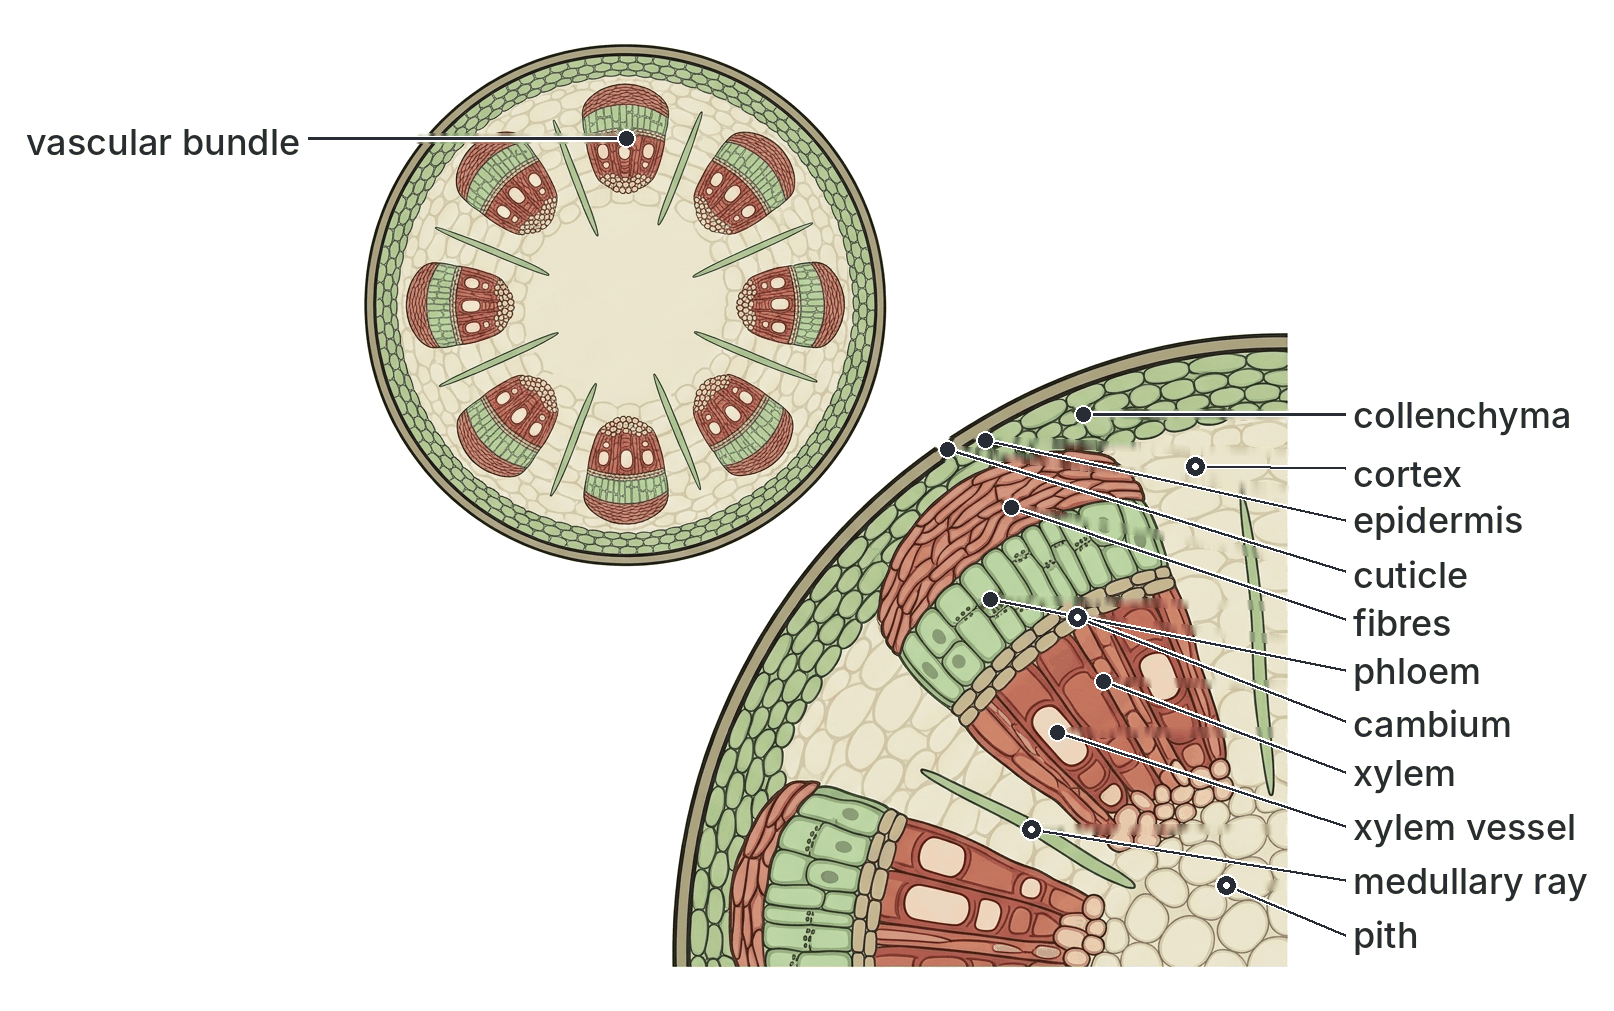
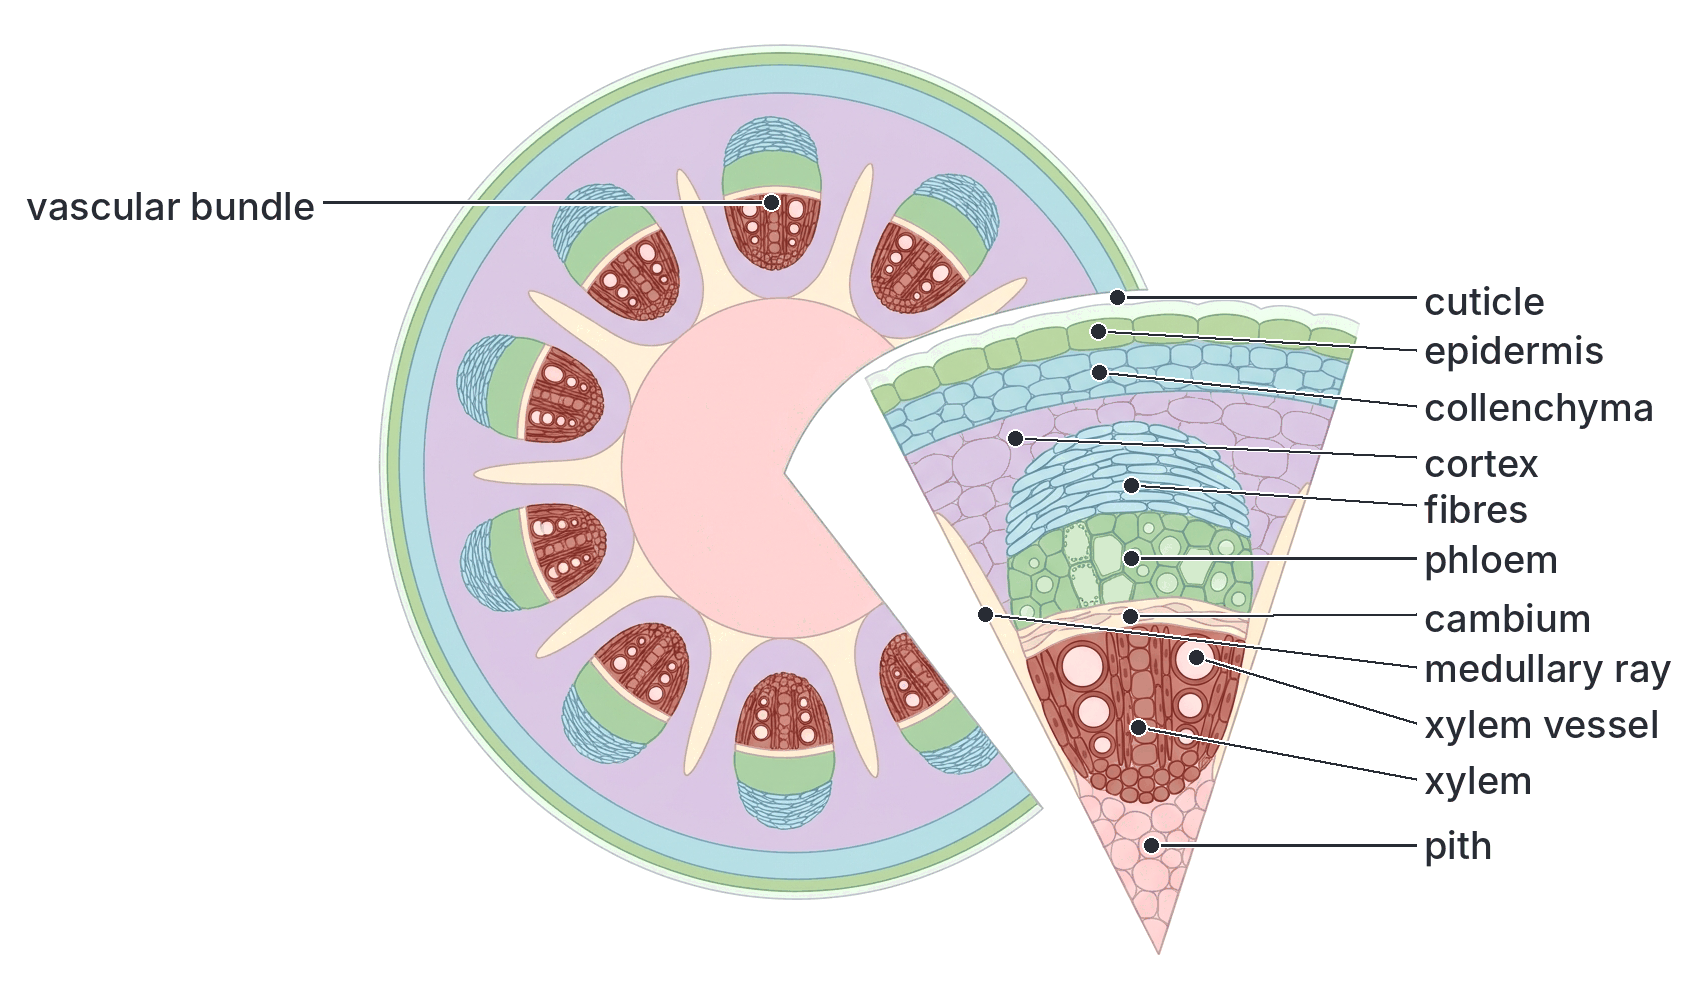
Redo pass biology B3b-transport-in-plants: 2 regenerated, 2 removed (placeholder restored), 1 captions reverted
Claude-Session: https://claude.ai/code/session_01AuzkMMKKHsgCscpXnvCsGG

diff --git a/subjects/biology/B3b-transport-in-plants.md b/subjects/biology/B3b-transport-in-plants.md
@@ -433,7 +433,7 @@ Xylem is made of four kinds of cells:
 
 **Key features to remember about phloem:** mostly **living** cells; sieve tubes have **sieve plates** and **no nucleus**; companion cells have a nucleus; flow can be **in both directions** (up and down); walls are not lignified (except fibres).
 
-![Diagram showing longitudinal and transverse sections of xylem vessels and tracheids alongside phloem sieve tube elements and companion cells.](images/B3b-08-xylem-phloem-longitudinal-section.png)
+[IMAGE: Longitudinal sections of xylem and phloem side by side. Left (xylem, red-brown tones): a xylem vessel made of several cells end to end with the end walls gone, showing ring (annular), spiral and pitted lignin thickening in different parts, and beside it a tracheid with tapering ends and pits. Right (phloem, green tones): a sieve tube made of several cells joined by sieve plates with pores, thin cytoplasm and no nucleus, with a narrow companion cell beside each element containing a nucleus and dense cytoplasm. Below each, a small transverse section. Labels to add: "xylem vessel", "no end walls", "annular thickening", "spiral thickening", "pits", "lignin", "tracheid", "phloem", "sieve tube element", "sieve plate", "pores", "companion cell", "nucleus", "cytoplasm". Clean flat textbook style, white background.]
 
 ## Functions of the xylem and phloem
 
@@ -710,7 +710,7 @@ A **potometer** is an apparatus that measures the **rate of water uptake** by a 
 
 **Weighing method:** another way to measure water loss is to weigh a potted plant (with the pot and soil sealed in polythene) at intervals. The loss of mass is mainly the water lost by transpiration.
 
-![Diagram of a bubble potometer setup showing a leafy shoot in a flask, a capillary tube with scale and bubble, a reservoir with tap, and a beaker.](images/B3b-13-bubble-potometer-apparatus.png)
+[IMAGE: A bubble potometer set-up. A leafy shoot fitted through a rubber bung into a water-filled glass tube or flask, sealed with petroleum jelly. The tube connects to a horizontal capillary tube with a millimetre scale beside it and an air bubble in it, with a small arrow showing the bubble moving towards the shoot. A water reservoir with a tap joins the tube. The open end of the capillary dips into a beaker of water. Labels to add: "leafy shoot", "airtight seal (petroleum jelly)", "rubber bung", "water", "reservoir", "tap", "capillary tube", "scale", "air bubble", "direction of bubble movement", "beaker of water". Clean flat textbook style, white background.]
 
 ### Guttation
 
